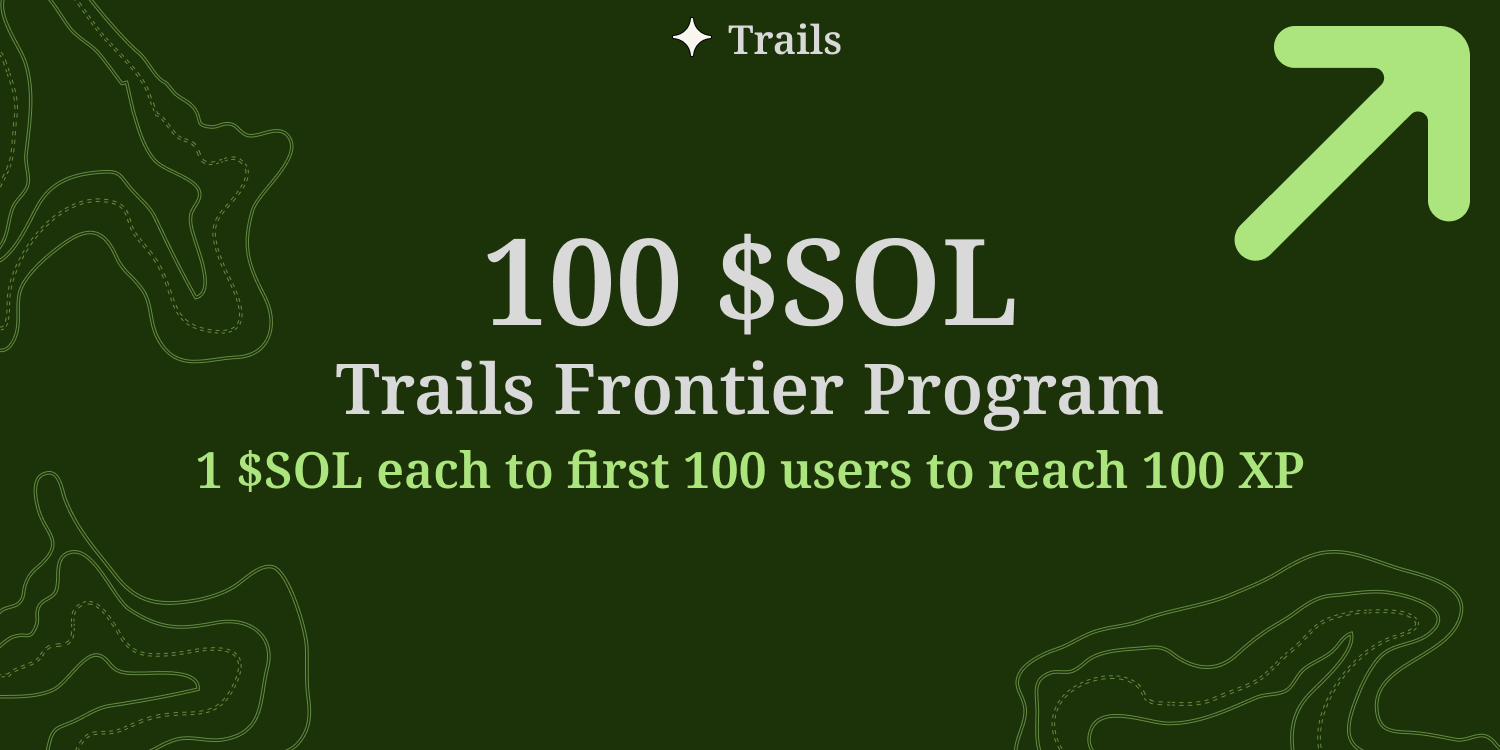
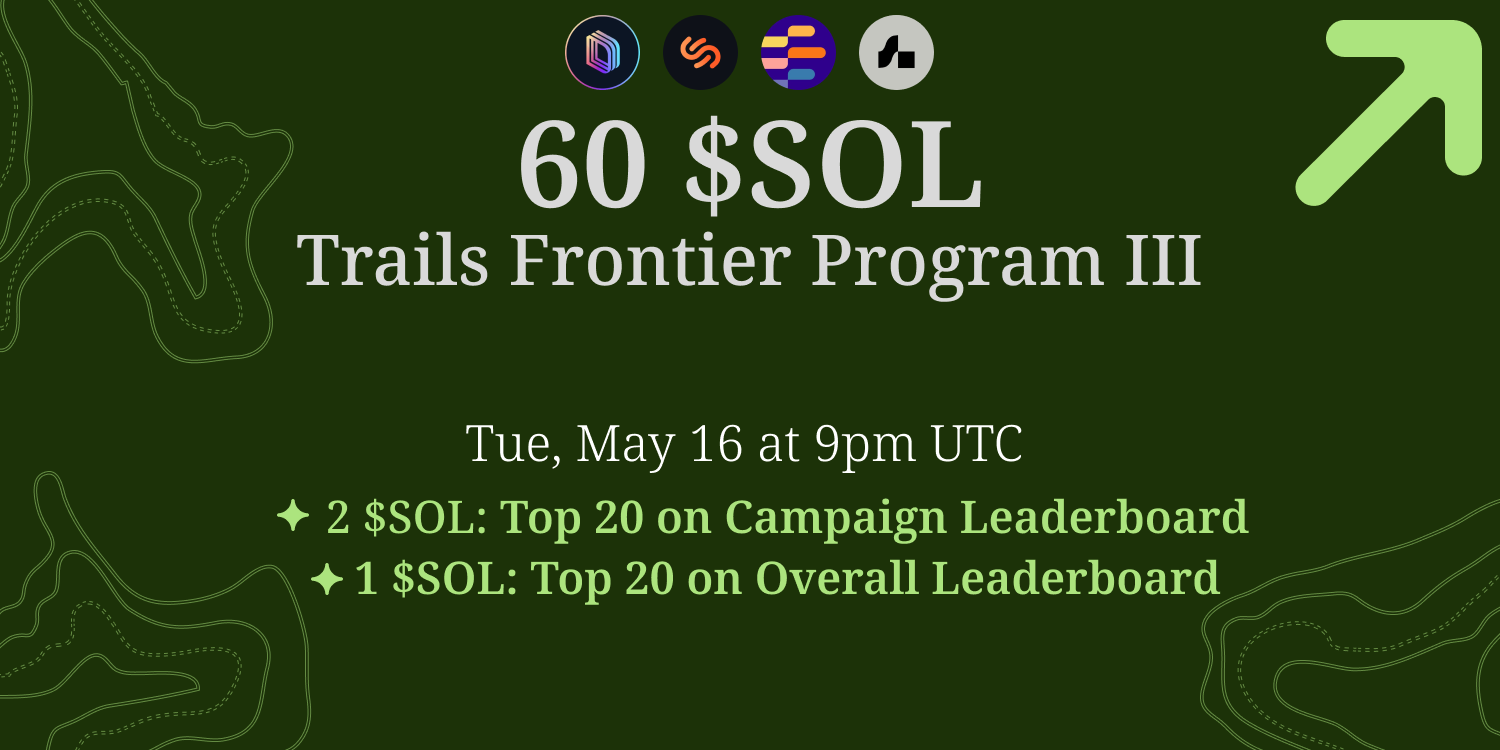
“updates”

diff --git a/src/components/FrontierPage.tsx b/src/components/FrontierPage.tsx
@@ -1,6 +1,6 @@
 import { Connection, GetVersionedTransactionConfig, PublicKey, Transaction } from '@solana/web3.js';
 import React, { useEffect } from 'react';
-import { useParams } from "react-router-dom"
+import { NavLink, useParams } from "react-router-dom"
 import { CONFIG, NETWORK } from 'src/constants/constants';
 import { MDBAccordion, MDBAccordionItem } from 'mdb-react-ui-kit';
 
@@ -20,13 +20,19 @@ const FrontierPage = (props: any) => {
             <span>⛏</span>The Frontier Program is designed to reward early Trails adopters
             </div>
             <div>
-            <span>🗻</span>The first 100 users to reach 100 XP will receive 1 $SOL
+                <span>🗻</span>The top 20 on the "Overall" <NavLink  to ='/leaderboard'>leaderboard</NavLink> on May 16 @ 9pm UTC will receive 1 $SOL each
             </div>
             <div>
-                <span>🙅</span>People who try to sybil the protocol will be disqualified
+                <span>😎</span>The top 20 on the "Campaign" <NavLink  to ='/leaderboard'>leaderboard</NavLink> on May 16 @ 9pm UTC will receive 2 $SOL each
             </div>
             <div>
-                <span>💰</span>Once at 100 XP, comment on the <a target={'_blank'} href='https://twitter.com/TrailsProtocol/status/1651299378684887058'>original post</a> with your address or DM us <a target={'_blank'} href='https://twitter.com/TrailsProtocol'>@TrailsProtocol</a> to receive your $SOL
+                <span>☀</span>Only XP from the 4 new protocols (Drift, Solend, Solarplex) will count towards the "Campaign" leaderboard
+            </div>
+            {/* <div>
+                <span>🐦</span>You must be following Trails, Drift, Solend, and Solarplex on Twitter to earn the "Campaign" leaderboard prize
+            </div> */}
+            <div>
+                <span>💰</span>DM us at<a target={'_blank'} href='https://twitter.com/TrailsProtocol'>@TrailsProtocol</a> with your address to receive your prize
             </div>
             {/* </ul> */}
             </div>
